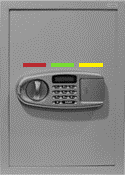
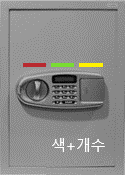
완성

diff --git a/PROJECT_V3.cpp b/PROJECT_V3.cpp
@@ -177,7 +177,7 @@ void mouseCallback(ObjectID object, int x, int y, MouseAction action) {
 		pickObject(driver);
 	}
 	else if (object == safe1) {
-		showKeypad("351", safe1);
+		showKeypad("RGY351", safe1);
 	}
 	else if (object == safe2) {
 		showKeypad("GETOUT", safe2);
